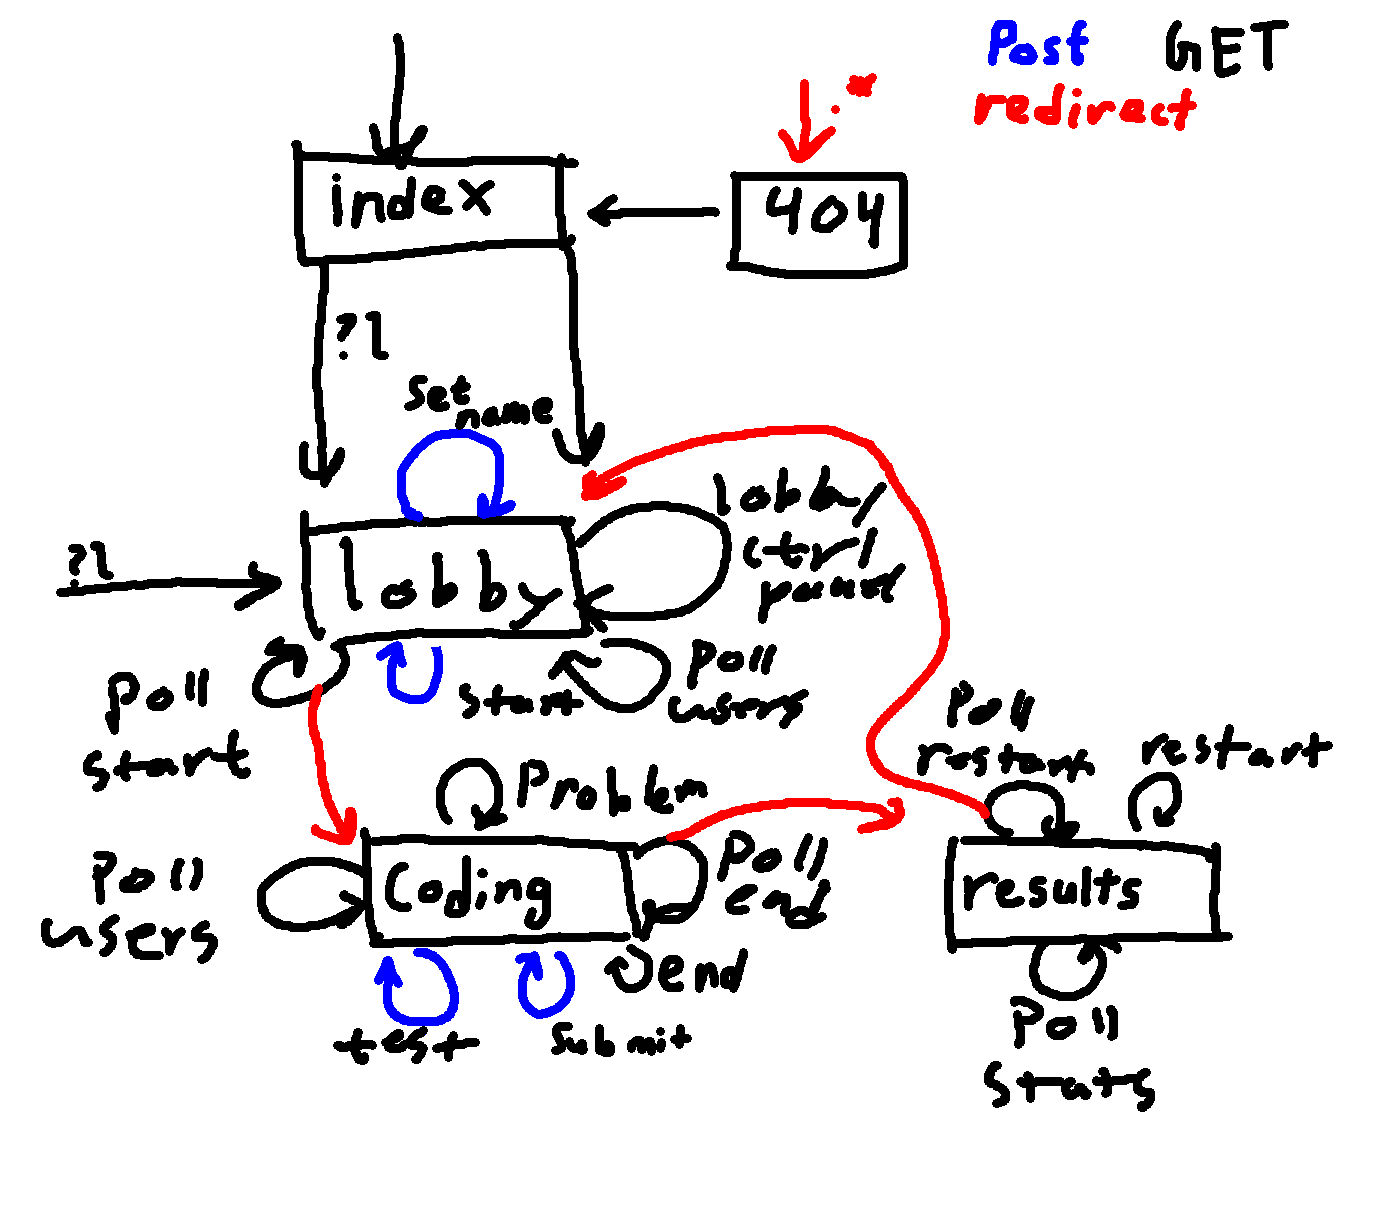
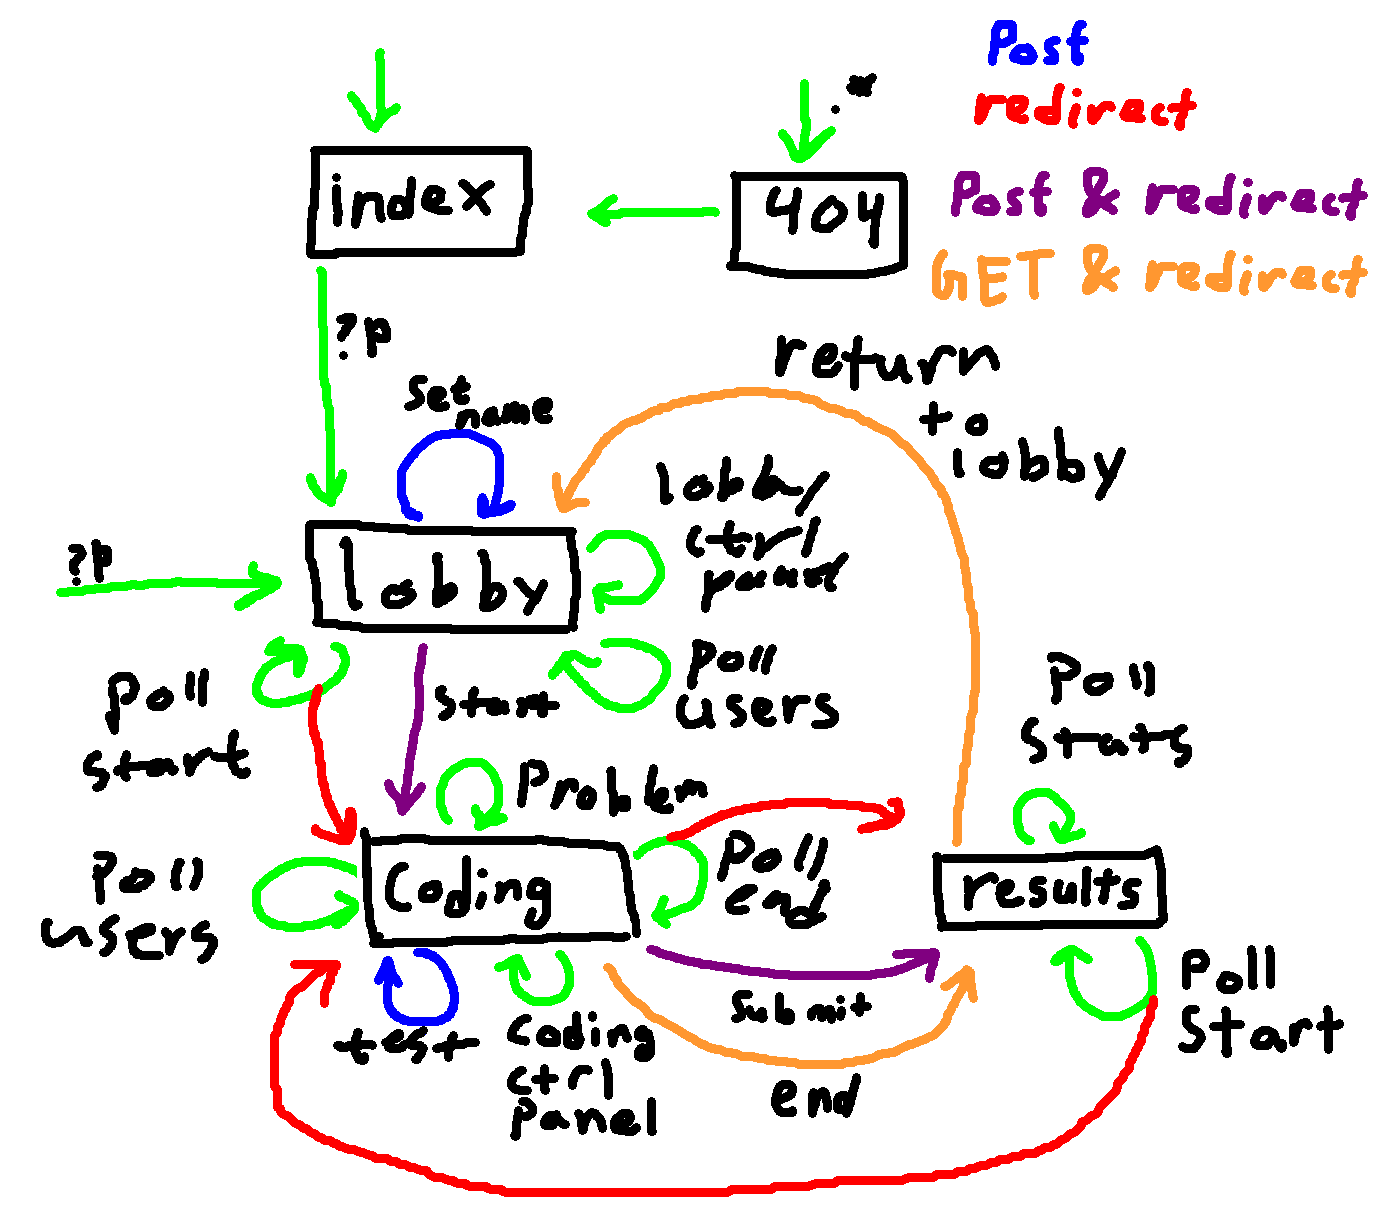
Most api calls done, and by done i mean they have placeholders
the formatting is all off though

diff --git a/api.py b/api.py
@@ -54,7 +54,10 @@ def lobby(token, query_string):
       party_code = "".join(random.choices(CODE_CHARS, k=CODE_LENGTH))
     party.PARTIES[party_code] = party.Party()
     print(f"Made new party: {party_code}")
+    return (303, (("location", f"/pages/lobby.html?p={party_code}"),), b"")
   for p in party.PARTIES:
+    if p == party_code:
+      continue
     if party.PARTIES[p].del_gladiator(token):
       break
   if party_code in party.PARTIES:
@@ -66,13 +69,117 @@ def lobby(token, query_string):
 # GET
 def poll_start(token, query_string):
   party_code = find_party(token)
-  if party_code != "":
-    if party.PARTIES[party_code].status == "lobby":
-      return (200, tuple(), b"")
-    else:
-      return (200, (("HX-Redirect", "/pages/coding.html"),), b"")
-  else:
+  if party_code == "":
     return format_error(400, "You are not in any lobby!")
+  p = party.PARTIES[party_code]
+  if p.status == "coding" and p.gladiators[token].status == "ready":
+    return (200, (("HX-Redirect", "/pages/coding.html"),), b"")
+  else:
+    return (200, tuple(), b"")
+
+# GET
+# TODO: remove "Player" header? that should be static
+# TODO: indicate host
+def poll_users(token, query_string):
+  party_code = find_party(token)
+  if party_code == "":
+    return format_error(400, "You are not in any lobby!")
+  glads = party.PARTIES[party_code].get_gladiators()
+  out = (
+    b"<ul class=\"space-y-2 text-gray-700\"><li>"
+    + b"</li><li>".join(glad.name.encode("utf-8") for glad in glads)
+    + b"</li></ul>"
+  )
+  return (200, tuple(), out)
+
+# GET
+def lobby_ctrl_panel(token, query_string):
+  party_code = find_party(token)
+  if party_code == "":
+    return format_error(400, "you are not in any lobby!")
+  if party.PARTIES[party_code].host == token:
+    out = (
+      b"<form action=\"/api/start\" method=\"post\">"
+      + b"<input type=\"text\" id=\"my-text\" name=\"my-text\">"
+      + b"<input type=\"submit\" value=\"submit\">"
+      + b"</form>"
+    )
+    return (200, tuple(), out)
+  else:
+    out = (
+      b"<p class=\"text-gray-600\">Waiting for host to start the match...</p>"
+    )
+    return (200, tuple(), out)
+
+# GET
+def coding_ctrl_panel(token, query_string):
+  party_code = find_party(token)
+  if party_code == "":
+    return format_error(400, "you are not in any lobby!")
+  if party.PARTIES[party_code].host == token:
+    out = (
+      b"<a class=\"px-3 py-1 bg-gray-600 text-white rounded hover:bg-gray-700\" "
+      + b"href=\"/api/end\">"
+      + b"End Match"
+      + b"</a>"
+    )
+    return (200, tuple(), out)
+  else:
+    return (200, tuple(), b"")
+
+# GET
+def poll_end(token, query_string):
+  party_code = find_party(token)
+  if party_code == "":
+    return format_error(400, "you are not in any lobby!")
+  if party.PARTIES[party_code].status == "not coding":
+    # TODO: make redirects consistent
+    return (200, (("HX-Redirect", "/pages/results.html"),), b"")
+  else:
+    return (200, tuple(), b"")
+
+# GET
+def end(token, query_string):
+  party_code = find_party(token)
+  if party_code == "":
+    return format_error(400, "you are not in any lobby!")
+  p = party.PARTIES[party_code]
+  if p.host == token:
+    p.end()
+    return (303, (("location", "/pages/results.html"),), b"")
+  else:
+    return format_error(400, "you are not the host!")
+
+# GET
+def return_to_lobby(token, query_string):
+  party_code = find_party(token)
+  if party_code == "":
+    return format_error(400, "you are not in any lobby!")
+  return (303, (("location", f"/pages/lobby.html?p={party_code}"),), b"")
+
+# GET
+def poll_stats(token, query_string):
+  party_code = find_party(token)
+  if party_code == "":
+    return format_error(400, "You are not in any lobby!")
+  out = b"<div id=\"leaderboard\" class=\"space-y-2\">"
+  for glad in party.PARTIES[party_code].get_gladiators():
+    out += b"<div class=\"flex justify-between text-gray-700\">"
+    out += b"<span>" + glad.name.encode("utf-8") + b"</span>"
+    if glad.status == "ready":
+      out += b"<span>coding...</span>"
+    elif glad.status == "submitted":
+      # TODO: remove this if statement, it's just for testing
+      if random.randint(1,3) == 1:
+        glad.status = "scored"
+        glad.score = random.randint(1,100)
+      out += b"<span>scoring...</span>"
+    elif glad.status == "scored":
+      out += b"<span>" + str(glad.score).encode("utf-8") + b"</span>"
+    out += b"</div>"
+  out += b"</div>"
+  return (200, tuple(), out)
+
 
 # GET_CALLS = { path: function(token, query_string) -> (code, headers, body), ... }
 # path = (str, ...)
@@ -90,9 +197,29 @@ GET_CALLS = {
   # If it is invalid, TODO
   ("pages", "lobby.html"): lobby,
   # Checks to see if the gladiator's game has been started.
-  # Redirects to pages/coding if the game is not in the "lobby" state.
+  # Redirects to pages/coding if the game is not in the "not coding" state.
   # If the gladiator is not in any game, TODO
   ("api", "poll-start"): poll_start,
+  # Returns a table of all the users in the current party.
+  # If the gladiator is not in any party, throw an error.
+  ("api", "poll-users"): poll_users,
+  # Returns settings dialogue if you're the host
+  # Returns nothing otherwise
+  ("api", "lobby-ctrl-panel"): lobby_ctrl_panel,
+  # Returns match setting dialogue if you're the host
+  # Returns nothing otherwise
+  ("api", "coding-ctrl-panel"): coding_ctrl_panel,
+  # TODO: problem
+  # Redircts the user to the results page if the party is in "not coding" state
+  ("api", "poll-end"): poll_end,
+  # Ends the match and redirects the user if you are the host
+  # Returns an error if you are not the host
+  ("api", "end"): end,
+  # Returns the user back to the lobby of the current party
+  ("api", "return-to-lobby"): return_to_lobby,
+  # Returns a table of all the users' stats
+  # If the gladiator is not in any party, throw an error.
+  ("api", "poll-stats"): poll_stats,
 }
 
 # POST
@@ -101,8 +228,8 @@ def start(token, body):
   if party_code != "":
     p = party.PARTIES[party_code]
     if p.host == token:
-      if p.status == "lobby":
-        p.status = "coding"
+      if p.status == "not coding":
+        p.start()
         return (303, (("location", "/pages/coding.html"),), b"")
       else:
         return format_error(400, "The match is in progress.")
@@ -110,6 +237,30 @@ def start(token, body):
       return format_error(403, "You are not the host!")
   else:
     return format_error(400, "You are not in any lobby!")
+
+# POST
+def submit(token, body):
+  print("Got this body:")
+  print(body)
+  party_code = find_party(token)
+  if party_code == "":
+    return format_error(400, "You are not in any lobby!")
+  p = party.PARTIES[party_code]
+  if p.status != "coding":
+    return format_error(400, "Your party is not in a match right now!")
+  if p.gladiators[token].status != "ready":
+    return format_error(400, "You have already submitted!")
+  p.gladiators[token].status = "submitted"
+  # TODO: submit this to the VM
+  move_on = True
+  for glad in p.get_gladiators():
+    if glad.status == "ready":
+      move_on = False
+      break
+  if move_on:
+    p.end()
+    print("Everyone Submitted!")
+  return (303, (("location", "/pages/results.html"),), b"")
 
 # POST_CALLS = { path: function(token, body) -> (code, headers, body), ... }
 # path = (str, ...)
@@ -122,4 +273,9 @@ POST_CALLS = {
   # Starts the gladiator's lobby and redirects to the coding page. TODO: Really redirect?
   # TODO: Setup match with parameters from the body.
   ("api", "start"): start,
+  # set-name
+  # test
+  # Runs code as a final submission, and redirect to results page.
+  # TODO: right now it's just a placeholder. Actually make it do something
+  ("api", "submit"): submit,
 }

diff --git a/party.py b/party.py
@@ -4,17 +4,20 @@ PARTIES = dict()
 
 # TODO: token -> party mapping? we loop through parties looking for tokens a lot...
 
+class Gladiator:
+  def __init__(self, name="", status="ready", score=0):
+    self.name = name
+    self.status = status # "ready" | "submitted" | "scored"
+    self.score = score
+
 class Party:
   def __init__(self):
 #    self.lock = threading.Lock()
-    # { token: (name, status, score), ... }
+    # { token: Gladiator, ... }
     # token = str
-    # name = str
-    # status = "ready" | "submitted" | "scored"
-    # score = int
     self.gladiators = dict()
-    # "lobby" | "coding" | "results"
-    self.status = "lobby"
+    # "not coding" | "coding"
+    self.status = "not coding"
     # Host's token, or "" if there is no host.
     # The host is the first person in the lobby.
     # If the host leaves, TODO
@@ -28,6 +31,8 @@ class Party:
   # Adds a gladiator to this party.
   # Assigns a placeholder name until they assign their own.
   def add_gladiator(self, token):
+    if token in self.gladiators:
+      return
     if self.host == "":
       self.host = token
     num = -1
@@ -37,10 +42,11 @@ class Party:
       name = "gladiator_" + str(num)
       okay = True
       for g in self.gladiators:
-        if g[0] == name:
+        if self.gladiators[g].name == name:
           okay = False
           break
-    self.gladiators[token] = (name, "ready", 0)
+    print("glad was added. host is " + self.host)
+    self.gladiators[token] = Gladiator(name, "ready", 0)
 
   # Removes a gladiator by their token.
   # Assigns a random host if the host left (or "" if there are no gladiators).
@@ -52,7 +58,26 @@ class Party:
         glads = tuple(self.gladiators.keys())
         if len(glads) != 0:
           self.host = random.choice(glads)
+      print("glad was deleted. host is: " + self.host)
       return True
     else:
+      print("glad not found. host is: " + self.host)
       return False
 
+  # generates all of the gladiators' names
+  def get_gladiators(self):
+    for token in self.gladiators:
+      yield self.gladiators[token]
+
+  def end(self):
+    self.status = "not coding"
+    for glad in self.gladiators:
+      if self.gladiators[glad].status == "ready":
+        self.gladiators[glad].status = "scored"
+        self.gladiators[glad].score = 0
+
+  def start(self):
+    self.status = "coding"
+    for glad in self.gladiators:
+      self.gladiators[glad].status = "ready"
+      self.gladiators[glad].score = 0
